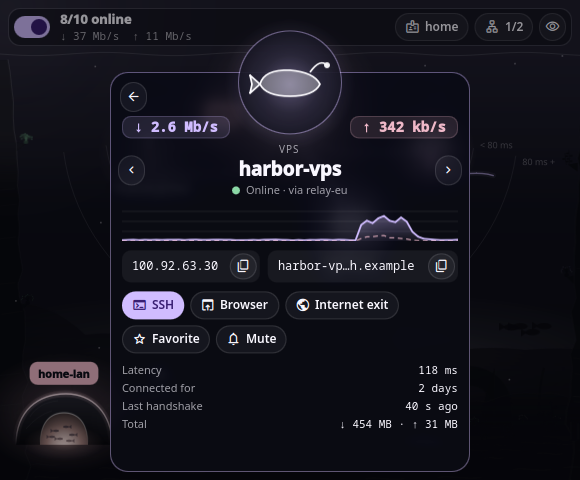
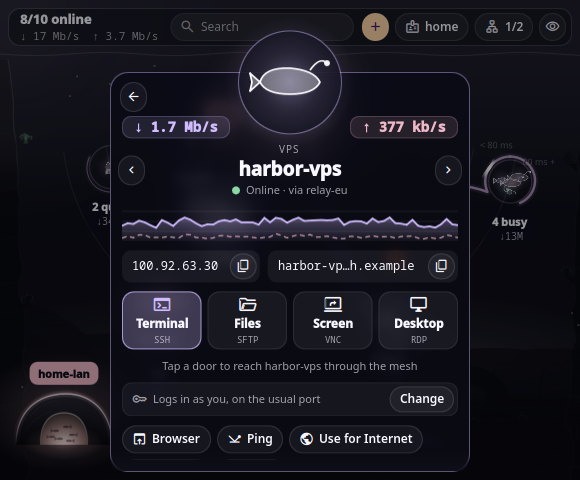
Fresh screenshots and GIFs for 0.5; previews wait until nothing swims
The demo traffic regroups the deep every second and the preview script
took its picture 1.6 s in, often mid-swim, so two creatures could sit on
top of each other (P92). shot.qml now waits, 100 ms at a time and 5 s at
most, until no creature is swimming. Every screenshot and GIF of the
README and the guide is rendered again from the demo mesh.

diff --git a/scripts/preview/shot.qml b/scripts/preview/shot.qml
@@ -686,13 +686,27 @@ Window {
         interval: 900
         onTriggered: task()
     }
-    // Let a few clock ticks run so pulses and tentacles are in place
+    // Let a few clock ticks run so pulses and tentacles are in place, then
+    // wait until no creature is swimming: the demo traffic regroups the deep
+    // every second, and a still taken mid-trip shows two animals crossing
+    // (P92). Checked every 100 ms, for 5 s at most.
     Timer {
         id: shot
+        property int waits: 0
         interval: 1600
-        onTriggered: win.contentItem.grabToImage(r => {
-            r.saveToFile(win.out);
-            Qt.quit();
-        })
+        onTriggered: {
+            if (scene._swimming && waits < 50) {
+                waits++;
+                interval = 100;
+                restart();
+                return;
+            }
+            if (scene._swimming)
+                console.warn("shot: still swimming after 5 s, grabbed anyway");
+            win.contentItem.grabToImage(r => {
+                r.saveToFile(win.out);
+                Qt.quit();
+            });
+        }
     }
 }

diff --git a/CHANGELOG.md b/CHANGELOG.md
@@ -5,6 +5,14 @@ The format follows [Keep a Changelog](https://keepachangelog.com/en/1.1.0/) and 
 
 ## Unreleased
 
+### Documentation
+
+- **Every screenshot and GIF redone for 0.5**: the README and the guide showed the deep of 0.1 and 0.2 (no search bar, no *+* button, no doors on the card). All of them are rendered again from the demo mesh: the deep, disconnected, relay down, exit node in a light theme, search, menus, networks, the card, the Control Center, the desktop fishbowl, and the five gesture GIFs.
+
+### Fixed
+
+- **Previews no longer catch two creatures crossing**: the demo traffic regroups the deep every second, and the preview script took its picture 1.6 s in, often in the middle of a swim, so a manta and a turtle could sit on top of each other with a hidden name. It now waits until nothing swims before taking the picture. The layout itself never overlaps resting creatures.
+
 ## 0.5.1 - 2026-10-02
 
 ### Security

diff --git a/ROADMAP.md b/ROADMAP.md
@@ -4,7 +4,8 @@ No promises, no dates. Everything here was asked for and is not in a release yet
 
 ## Next
 
-- Measured CPU cost while a view is open, and fresh screenshots.
+- Measured CPU cost while a view is open, from a repeatable bench (the shell is too busy on a desktop in use for honest numbers).
+- The name of the deepest peer, when it is the top consumer, can reach the cave names on the floor.
 
 ## Later
 
